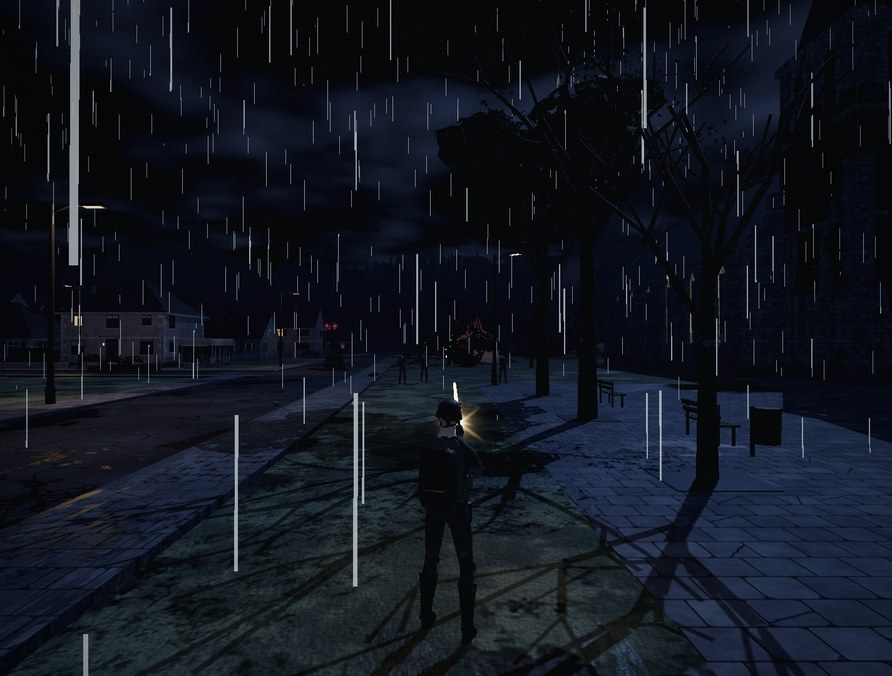
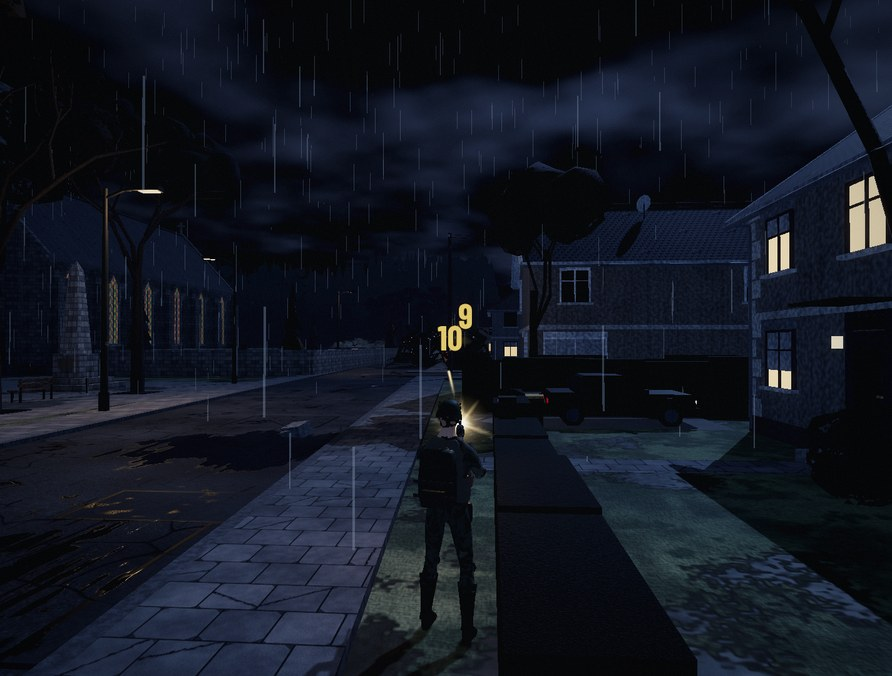
Vignettes des missions recapturées, journal v0.23.0

diff --git a/docs/ARCHITECTURE.md b/docs/ARCHITECTURE.md
@@ -51,7 +51,8 @@ Rempart est un projet Godot 4.7 .NET entièrement écrit en C#. La quasi-totalit
   de l'image, sous le réticule. En visée : 2,6 m, épaule droite à 0,6 m. Champ de vision vertical 60° par défaut (clé de
   réglage `video/fov_v`, curseur 50-90°).
 - **Humidité** : paramètre global de shader `wetness` (déclaré dans `project.godot`, réglé par `World.BuildEnvironment`) :
-  flaques des matières `Weathered` × 1 sous la pluie et sous terre, × 0,3 par beau temps.
+  1 sous la pluie et sous terre, 0,3 par beau temps ; le seuil du masque des flaques monte quand il fait sec (quelques
+  petites flaques franches au lieu d'un voile partout).
 - **Ville** : enduits clairs (crème, sable, blanc cassé, gris perle), brique orangée, murs-rideaux bleutés (`Mats.StyleOf`) ;
   teinte propre à chaque immeuble tirée d'une palette bigarrée (`Building.Tint`, sans tirage aléatoire) ; fenêtres
   incendiées et vitres brisées rares, calque de dégâts sur un immeuble sur trois (lourd sur un sur dix), panneaux arrachés

diff --git a/CHANGELOG.md b/CHANGELOG.md
@@ -1,5 +1,12 @@
 # Journal des versions
 
+## v0.23.0 — Sols propres
+
+- **Flaques** : par beau temps, seulement quelques petites flaques franches (l'asphalte était tacheté de bleu partout).
+- **Pelouses** sans taches de boue sombre.
+- Fourmis noires : une caisse pour sept environ.
+- Vignettes des missions recapturées.
+
 ## v0.22.0 — Phares
 
 - **Phares des véhicules** la nuit et sous terre : faisceaux du char, projecteur de recherche de l'hélicoptère.
